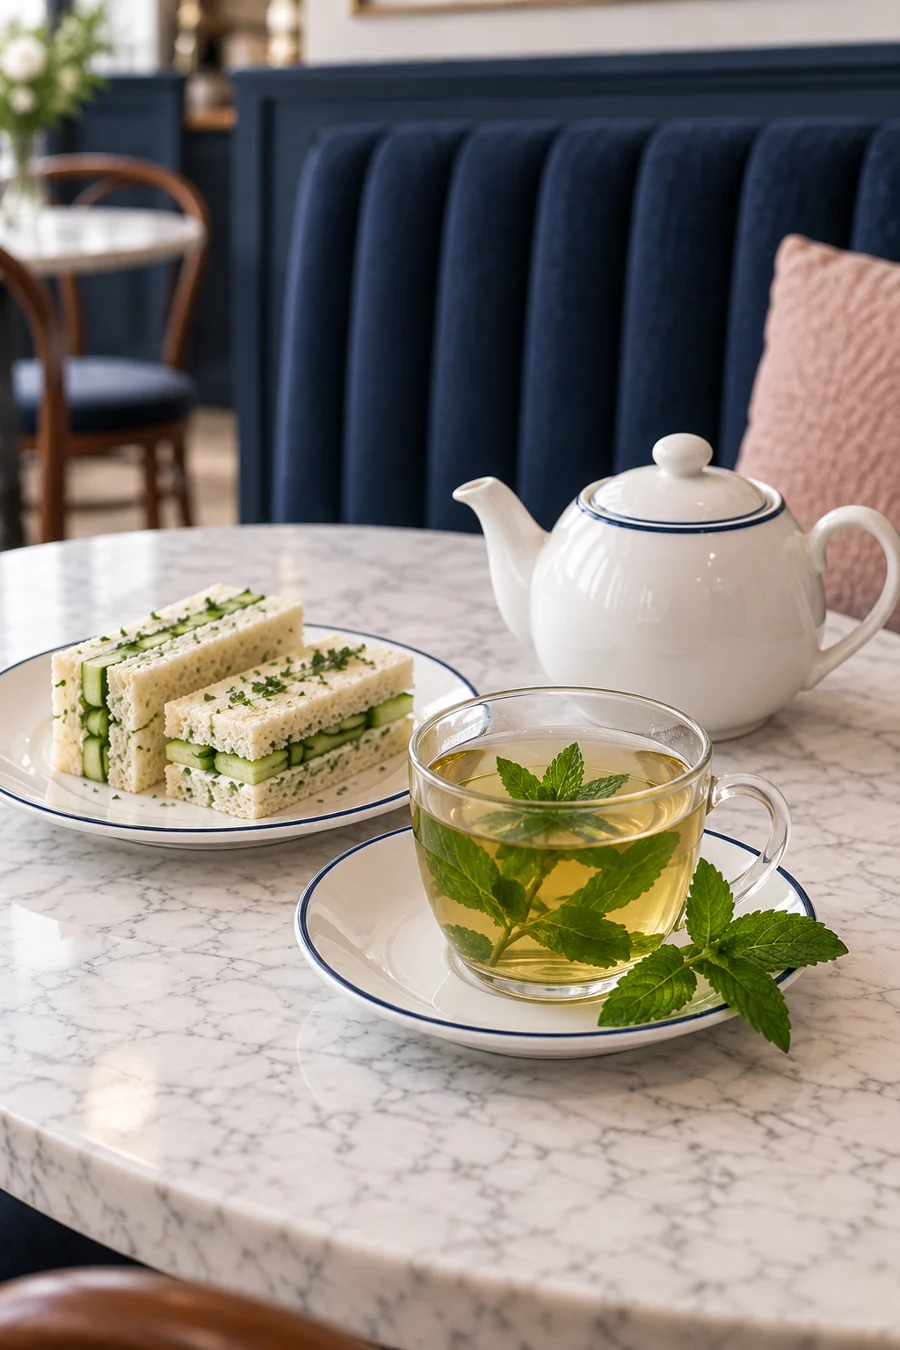
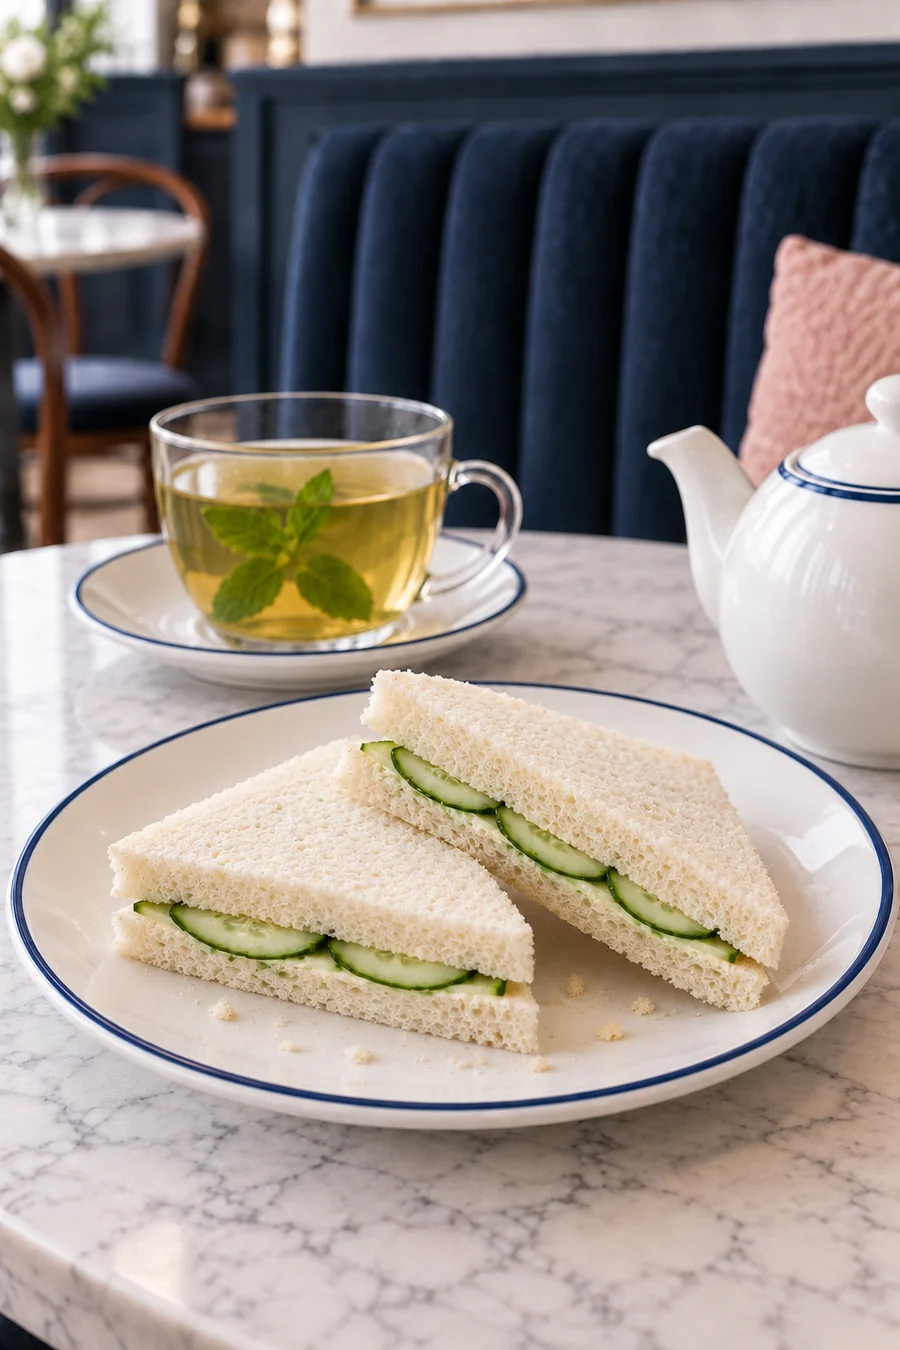
Refine Hartley food texture and smooth hero transitions

diff --git a/client/public/previews/hartley/hartley.css b/client/public/previews/hartley/hartley.css
@@ -274,16 +274,16 @@ button:disabled {
   line-height: 1.25;
   height: 1.3em;
   letter-spacing: -0.065em;
-  perspective: 650px;
   overflow: hidden;
 }
 #hero-word {
-  display: inline-flex;
+  display: grid;
+  width: 100%;
   white-space: nowrap;
 }
-#hero-word > span {
-  display: inline-block;
-  transform-origin: center 75%;
+.hero-word-layer {
+  grid-area: 1 / 1;
+  justify-self: center;
 }
 .hero-copy > p:not(.eyebrow) {
   font-size: 18px;

diff --git a/docs/examples-refresh/hartley-cafe.md b/docs/examples-refresh/hartley-cafe.md
@@ -10,7 +10,7 @@ Use the supplied outlined Hartley logo, Rubik Black headings, Jost supporting co
 
 A standalone one-page English café experience, reviewed in Preview before production. This is the English-style café among the three incoming projects. Hospitality and the fish restaurant remain pending their assets. The gallery is called Our Work, with Website Demos as the category, in English, Greek and Hebrew. Existing /templates/ URLs and canonical relationships remain stable. No branding carousel is added in this phase.
 
-- Kinetic poster hero: staggered coffee/cake/company lettering, floating cafe photography and original dog/flower illustrations. Cursor/touch parallax, ambient floating on mobile, explicit See the menu link, fixed accessible heading text, and reduced-motion fallback.
+- Kinetic poster hero: smoothly overlapping coffee/cake/company lettering, floating cafe photography and original dog/flower illustrations. Cursor/touch parallax, ambient floating on mobile, explicit See the menu link, fixed accessible heading text, and reduced-motion fallback.
 - Three illustrated menu chapters: coffee, bakes and tea. Keyboard tabs and page-turn controls update the photograph and menu together.
 - Tea pairing selector now changes the large photograph, caption, tasting notes and food pairing together. On mobile the choices sit above the photograph, which stays visible after selection. Rapid selections cannot display stale images. The supplied afternoon-tea PDF remains downloadable.
 - Cake-wrapping flip using the matching supplied packing photographs.
@@ -50,3 +50,11 @@ Revision browser QA: 320/390/768/1440px, no horizontal overflow or uncaught erro
 The user approved the rest of the page but asked for a stronger, previously unused hero and meaningful tea-choice feedback. The paired slideshow is retired. The new hero adapts Fancy Components' rotating typography and parallax-floating composition in original vanilla JavaScript/CSS; no upstream implementation or dependencies were copied. New tea photos were generated with the built-in image_gen tool, using the supplied cafe photograph as a visual reference. Full prompts and original images: ../output/hartley-tea/prompts.json and breakfast.png, grey.png, mint.png. Published derivatives: client/public/previews/hartley/assets/tea-breakfast.webp, tea-grey.webp, tea-mint.webp.
 
 QA includes four responsive widths, all three tea choices and rapid switching, photo visibility after mobile selection, clear hero CTA and rotating-word fit, cursor parallax, reduced-motion and offscreen pause, and the existing gallery/menu/download/parcel flows. Main remains unchanged.
+
+## Food texture and smoother hero revision
+
+The user approved the kinetic hero but found the new food too artificial. Replaced the three tea photographs with closer food-led compositions: torn scone crumb and spread cream, lemon loaf with a thin sugar crust rather than thick icing, and simpler hand-cut cucumber sandwiches. The cafe/china reference remains consistent. Generated with the built-in image_gen tool, with an additional bread-texture refinement. Full prompts and final PNGs: ../output/hartley-tea/v2/prompts.json and breakfast.png, grey.png, mint.png. These are generated demo assets, not evidence of real food photography.
+
+Replaced sequential letter exits/entries and 3D flips with overlapping whole-word movement and a crossfade lasting 950ms. A shared grid cell and fixed-height stage prevent width/height changes. Gentle entrance uses the same movement language. The accessible fixed heading and reduced-motion handling remain. No section structure or other demo changes.
+
+Verification: browser checks at 320/390/768/1440px, all three food selections, rapid switching, menu controls, PDF and parcel interactions, loaded imagery, overflow and JavaScript errors. Additional frame sampling checks continuous word visibility, stationary CTA, longest-word fit, and reducing motion during a transition. Browser viewport/touch emulation, not physical-phone testing. Production build: 97 canonical pages, seven preview wrappers, zero errors and zero SEO audit issues. Preview only; main and unrelated Arcos work excluded.
